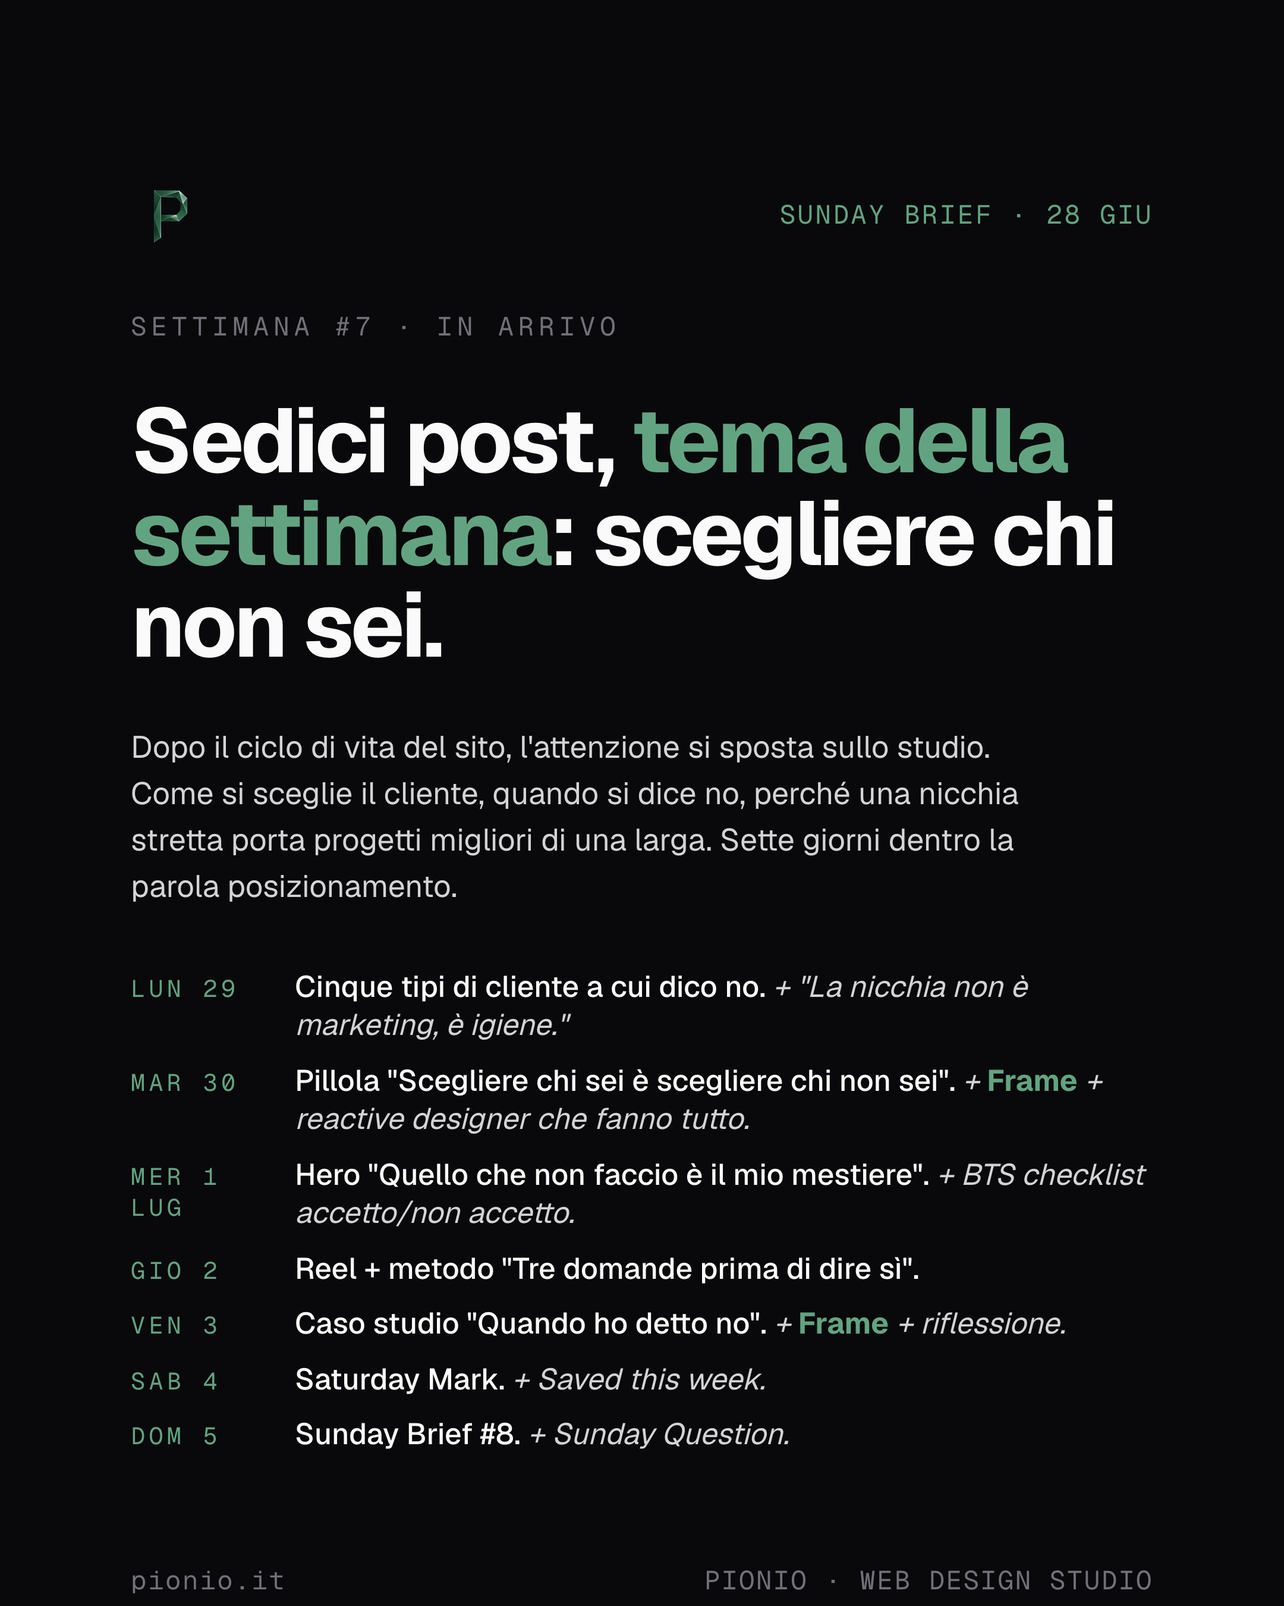
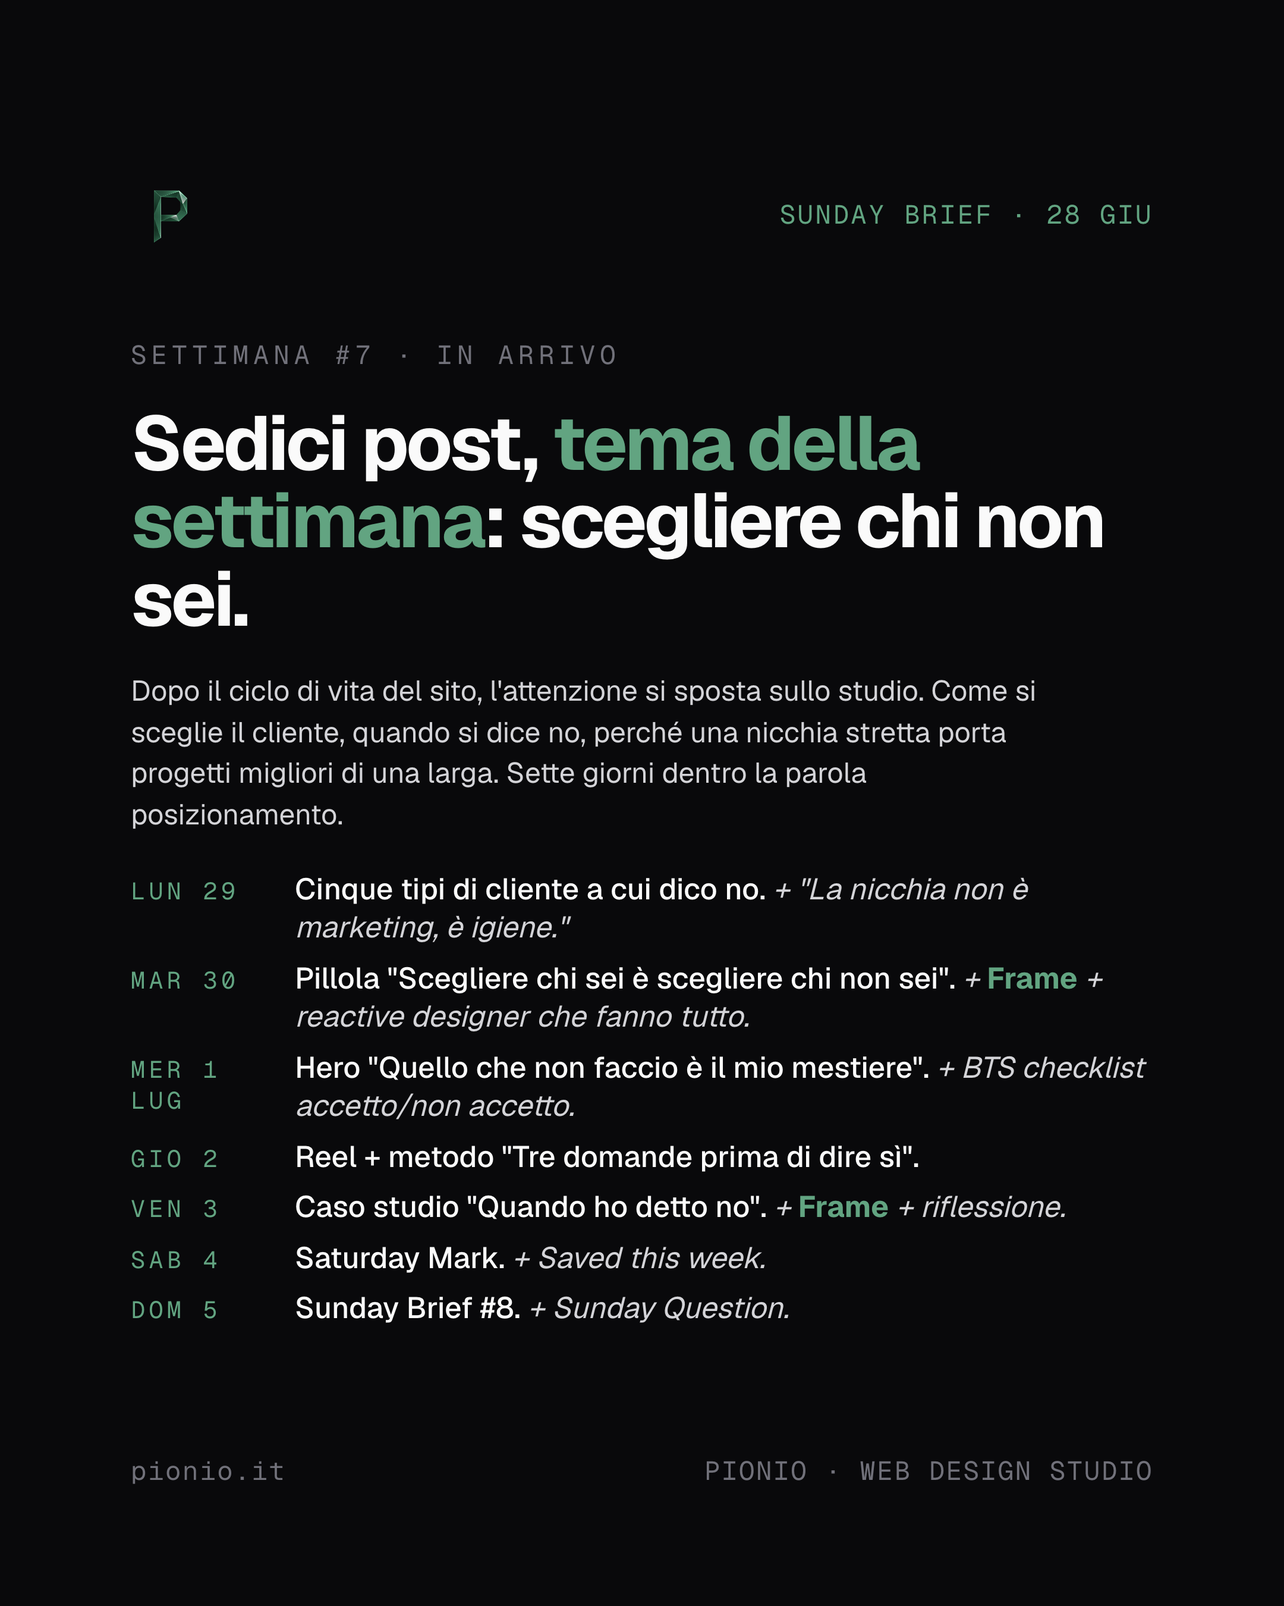
fix(instagram): Brief domenicale schiacciato in basso — bilanciamento layout
Title 76→64, gap main 44→28 + padding-top 24, gap list 14→10, lead 26→24.
Applicato ai 6 Brief W5-W10. 6 PNG re-renderizzati.

diff --git a/instagram/content/settimana-05-giu-2026/7-dom-21-13-brief-settimana-6/src/slides.html b/instagram/content/settimana-05-giu-2026/7-dom-21-13-brief-settimana-6/src/slides.html
@@ -1,0 +1,109 @@
+<!doctype html>
+<html lang="it">
+<head>
+<meta charset="utf-8" />
+<title>Pionio · Sunday Brief · 24 mag</title>
+<style>
+  @font-face { font-family: "Geist"; src: url("../../../../../brand-assets/fonts/Geist-Regular.ttf") format("truetype"); font-weight: 400; }
+  @font-face { font-family: "Geist"; src: url("../../../../../brand-assets/fonts/Geist-Medium.ttf") format("truetype"); font-weight: 500; }
+  @font-face { font-family: "Geist"; src: url("../../../../../brand-assets/fonts/Geist-Bold.ttf") format("truetype"); font-weight: 700; }
+  @font-face { font-family: "Geist Mono"; src: url("../../../../../brand-assets/fonts/GeistMono-Regular.ttf") format("truetype"); font-weight: 400; }
+
+  :root { --bg: #09090b; --text: #fafafa; --muted: #d4d4d8; --muted-dim: #71717a; --accent: #62a481; --accent-dark: #306b4d; }
+  * { box-sizing: border-box; margin: 0; padding: 0; }
+  html, body { background: var(--bg); margin: 0; padding: 0; overflow-x: hidden; }
+  body { font-family: "Geist", system-ui, sans-serif; color: var(--text); -webkit-font-smoothing: antialiased; text-rendering: geometricPrecision; }
+
+  .slide {
+    width: 1080px; height: 1350px; background: var(--bg);
+    position: relative; overflow: hidden; display: grid;
+    grid-template-rows: 160px 1fr 120px;
+    padding: 100px 110px; margin: 0 auto;
+  }
+
+  .header { display: flex; align-items: center; justify-content: space-between; }
+  .logo { width: 64px; height: 64px; }
+  .logo img { width: 100%; height: 100%; object-fit: contain; }
+  .eyebrow {
+    font-family: "Geist Mono", monospace; font-weight: 400; font-size: 22px;
+    color: var(--accent); letter-spacing: 0.08em; text-transform: uppercase;
+  }
+
+  .main {
+    display: flex; flex-direction: column; justify-content: center; gap: 44px;
+  }
+
+  .brief-kicker {
+    font-family: "Geist Mono", monospace; font-size: 22px;
+    color: var(--muted-dim); letter-spacing: 0.18em; text-transform: uppercase;
+  }
+
+  .brief-title {
+    font-family: "Geist", sans-serif; font-weight: 700; font-size: 80px;
+    line-height: 1.02; letter-spacing: -0.035em; color: var(--text);
+    max-width: 880px;
+  }
+  .brief-title em { font-style: normal; color: var(--accent); }
+
+  .brief-lead {
+    font-family: "Geist", sans-serif; font-weight: 400; font-size: 26px;
+    line-height: 1.5; color: var(--muted); max-width: 780px;
+  }
+
+  .brief-list { list-style: none; display: flex; flex-direction: column; gap: 10px; margin-top: 0; }
+  .brief-list li {
+    display: grid; grid-template-columns: 110px 1fr;
+    gap: 28px; align-items: baseline;
+  }
+  .brief-list .day {
+    font-family: "Geist Mono", monospace; font-size: 20px;
+    color: var(--accent); letter-spacing: 0.16em; text-transform: uppercase;
+  }
+  .brief-list .topic {
+    font-family: "Geist", sans-serif; font-weight: 500; font-size: 25px;
+    line-height: 1.3; color: var(--text);
+  }
+  .brief-list .topic em { font-style: italic; color: var(--muted); font-weight: 400; }
+  .brief-list .topic .frame { color: var(--accent); font-style: normal; font-weight: 600; }
+
+  .footer { display: flex; align-items: flex-end; justify-content: space-between; }
+  .footer-url, .footer-tag {
+    font-family: "Geist Mono", monospace; font-size: 22px;
+    color: var(--muted-dim); letter-spacing: 0.06em;
+  }
+</style>
+</head>
+<body data-gramm="false">
+
+<section class="slide" id="s1">
+  <div class="header">
+    <div class="logo"><img src="../../../../../design-system/assets/pionio-p-mark.png" alt="P"></div>
+    <div class="eyebrow">SUNDAY BRIEF · 21 GIU</div>
+  </div>
+
+  <div class="main">
+    <div class="brief-kicker">SETTIMANA #6 · IN ARRIVO</div>
+    <h1 class="brief-title">Sedici post, <em>tema della settimana</em>: quando rifare un sito.</h1>
+    <p class="brief-lead">
+      Chiude il ciclo: preventivo, lancio, manutenzione, e adesso il momento in cui anche la manutenzione non basta più. Come riconoscerlo, come decidere, come dirlo al cliente.
+    </p>
+
+    <ul class="brief-list">
+      <li><span class="day">Lun 22</span><span class="topic">Cinque segnali che il sito va rifatto. <em>+ "Rifare non è ricominciare."</em></span></li>
+      <li><span class="day">Mar 23</span><span class="topic">Pillola "Il sito che hai oggi non è il sito che ti serve". <em>+ <span class="frame">Frame</span> + reactive.</em></span></li>
+      <li><span class="day">Mer 24</span><span class="topic">Hero "Quando il sito invecchia male." <em>+ BTS audit pre-rifacimento.</em></span></li>
+      <li><span class="day">Gio 25</span><span class="topic">Reel "Anatomia di un audit". <em>+ pillola metodo.</em></span></li>
+      <li><span class="day">Ven 26</span><span class="topic">Caso studio "Quando ho detto: rifacciamolo". <em>+ <span class="frame">Frame</span> + riflessione.</em></span></li>
+      <li><span class="day">Sab 27</span><span class="topic">Saturday Mark. <em>+ Saved this week.</em></span></li>
+      <li><span class="day">Dom 28</span><span class="topic">Sunday Brief #7. <em>+ Sunday Question.</em></span></li>
+    </ul>
+  </div>
+
+  <div class="footer">
+    <div class="footer-url">pionio.it</div>
+    <div class="footer-tag">PIONIO · WEB DESIGN STUDIO</div>
+  </div>
+</section>
+
+</body>
+</html>

diff --git a/instagram/content/settimana-07-giu-2026/7-dom-5-13-brief-settimana-8/src/slides.html b/instagram/content/settimana-07-giu-2026/7-dom-5-13-brief-settimana-8/src/slides.html
@@ -2,7 +2,7 @@
 <html lang="it">
 <head>
 <meta charset="utf-8" />
-<title>Pionio · Sunday Brief · 28 giu</title>
+<title>Pionio · Sunday Brief · 5 lug</title>
 <style>
   @font-face { font-family: "Geist"; src: url("../../../../../brand-assets/fonts/Geist-Regular.ttf") format("truetype"); font-weight: 400; }
   @font-face { font-family: "Geist"; src: url("../../../../../brand-assets/fonts/Geist-Medium.ttf") format("truetype"); font-weight: 500; }
@@ -36,22 +36,22 @@
 <section class="slide" id="s1">
   <div class="header">
     <div class="logo"><img src="../../../../../design-system/assets/pionio-p-mark.png" alt="P"></div>
-    <div class="eyebrow">SUNDAY BRIEF · 28 GIU</div>
+    <div class="eyebrow">SUNDAY BRIEF · 5 LUG</div>
   </div>
   <div class="main">
-    <div class="brief-kicker">SETTIMANA #7 · IN ARRIVO</div>
-    <h1 class="brief-title">Sedici post, <em>tema della settimana</em>: scegliere chi non sei.</h1>
+    <div class="brief-kicker">SETTIMANA #8 · IN ARRIVO</div>
+    <h1 class="brief-title">Sedici post, <em>tema della settimana</em>: il primo contatto.</h1>
     <p class="brief-lead">
-      Dopo il ciclo di vita del sito, l'attenzione si sposta sullo studio. Come si sceglie il cliente, quando si dice no, perché una nicchia stretta porta progetti migliori di una larga. Sette giorni dentro la parola posizionamento.
+      Dopo aver parlato di chi non sono, parliamo di come comincia un progetto. Il primo contatto del cliente, la mail, la mood call, i primi sette giorni di un lavoro. Cosa cerco, cosa propongo, come si decide insieme se andiamo avanti.
     </p>
     <ul class="brief-list">
-      <li><span class="day">Lun 29</span><span class="topic">Cinque tipi di cliente a cui dico no. <em>+ "La nicchia non è marketing, è igiene."</em></span></li>
-      <li><span class="day">Mar 30</span><span class="topic">Pillola "Scegliere chi sei è scegliere chi non sei". <em>+ <span class="frame">Frame</span> + reactive designer che fanno tutto.</em></span></li>
-      <li><span class="day">Mer 1 lug</span><span class="topic">Hero "Quello che non faccio è il mio mestiere". <em>+ BTS checklist accetto/non accetto.</em></span></li>
-      <li><span class="day">Gio 2</span><span class="topic">Reel + metodo "Tre domande prima di dire sì". <em></em></span></li>
-      <li><span class="day">Ven 3</span><span class="topic">Caso studio "Quando ho detto no". <em>+ <span class="frame">Frame</span> + riflessione.</em></span></li>
-      <li><span class="day">Sab 4</span><span class="topic">Saturday Mark. <em>+ Saved this week.</em></span></li>
-      <li><span class="day">Dom 5</span><span class="topic">Sunday Brief #8. <em>+ Sunday Question.</em></span></li>
+      <li><span class="day">Lun 6</span><span class="topic">Cinque cose nella prima mail che mi dicono se è un cliente Pionio. <em>+ "Una mail bella è un brief mascherato."</em></span></li>
+      <li><span class="day">Mar 7</span><span class="topic">Pillola "La call vale più della mail". <em>+ <span class="frame">Frame</span> + reactive sulla forma scritta.</em></span></li>
+      <li><span class="day">Mer 8</span><span class="topic">Hero "I primi sette giorni decidono tutto". <em>+ BTS "Come preparo una mood call".</em></span></li>
+      <li><span class="day">Gio 9</span><span class="topic">Reel + metodo "La trascrizione dopo ogni call". <em></em></span></li>
+      <li><span class="day">Ven 10</span><span class="topic">Caso studio "Una mail che è diventata un sito". <em>+ <span class="frame">Frame</span> + riflessione.</em></span></li>
+      <li><span class="day">Sab 11</span><span class="topic">Saturday Mark. <em>+ Saved this week.</em></span></li>
+      <li><span class="day">Dom 12</span><span class="topic">Sunday Brief #9. <em>+ Sunday Question.</em></span></li>
     </ul>
   </div>
   <div class="footer">

diff --git a/instagram/content/settimana-08-lug-2026/7-dom-12-13-brief-settimana-9/src/slides.html b/instagram/content/settimana-08-lug-2026/7-dom-12-13-brief-settimana-9/src/slides.html
@@ -2,7 +2,7 @@
 <html lang="it">
 <head>
 <meta charset="utf-8" />
-<title>Pionio · Sunday Brief · 28 giu</title>
+<title>Pionio · Sunday Brief · 12 lug</title>
 <style>
   @font-face { font-family: "Geist"; src: url("../../../../../brand-assets/fonts/Geist-Regular.ttf") format("truetype"); font-weight: 400; }
   @font-face { font-family: "Geist"; src: url("../../../../../brand-assets/fonts/Geist-Medium.ttf") format("truetype"); font-weight: 500; }
@@ -36,22 +36,22 @@
 <section class="slide" id="s1">
   <div class="header">
     <div class="logo"><img src="../../../../../design-system/assets/pionio-p-mark.png" alt="P"></div>
-    <div class="eyebrow">SUNDAY BRIEF · 28 GIU</div>
+    <div class="eyebrow">SUNDAY BRIEF · 12 LUG</div>
   </div>
   <div class="main">
-    <div class="brief-kicker">SETTIMANA #7 · IN ARRIVO</div>
-    <h1 class="brief-title">Sedici post, <em>tema della settimana</em>: scegliere chi non sei.</h1>
+    <div class="brief-kicker">SETTIMANA #9 · IN ARRIVO</div>
+    <h1 class="brief-title">Sedici post, <em>tema della settimana</em>: la discovery.</h1>
     <p class="brief-lead">
-      Dopo il ciclo di vita del sito, l'attenzione si sposta sullo studio. Come si sceglie il cliente, quando si dice no, perché una nicchia stretta porta progetti migliori di una larga. Sette giorni dentro la parola posizionamento.
+      Capire il progetto prima di disegnare. Da lunedì entriamo nella fase più sottovalutata del mestiere: quella che precede ogni linea, ogni colore, ogni decisione di interfaccia. Cosa cerco, cosa scrivo, quanto dura.
     </p>
     <ul class="brief-list">
-      <li><span class="day">Lun 29</span><span class="topic">Cinque tipi di cliente a cui dico no. <em>+ "La nicchia non è marketing, è igiene."</em></span></li>
-      <li><span class="day">Mar 30</span><span class="topic">Pillola "Scegliere chi sei è scegliere chi non sei". <em>+ <span class="frame">Frame</span> + reactive designer che fanno tutto.</em></span></li>
-      <li><span class="day">Mer 1 lug</span><span class="topic">Hero "Quello che non faccio è il mio mestiere". <em>+ BTS checklist accetto/non accetto.</em></span></li>
-      <li><span class="day">Gio 2</span><span class="topic">Reel + metodo "Tre domande prima di dire sì". <em></em></span></li>
-      <li><span class="day">Ven 3</span><span class="topic">Caso studio "Quando ho detto no". <em>+ <span class="frame">Frame</span> + riflessione.</em></span></li>
-      <li><span class="day">Sab 4</span><span class="topic">Saturday Mark. <em>+ Saved this week.</em></span></li>
-      <li><span class="day">Dom 5</span><span class="topic">Sunday Brief #8. <em>+ Sunday Question.</em></span></li>
+      <li><span class="day">Lun 13</span><span class="topic">Cinque domande di discovery che nessuno fa. <em>+ "Disegnare senza capire è artigianato cieco."</em></span></li>
+      <li><span class="day">Mar 14</span><span class="topic">Pillola "La discovery è la metà del progetto". <em>+ <span class="frame">Frame</span> + reactive sul brief riempito.</em></span></li>
+      <li><span class="day">Mer 15</span><span class="topic">Hero "Quello che non si chiede non si trova". <em>+ BTS il documento di discovery in 3 pagine.</em></span></li>
+      <li><span class="day">Gio 16</span><span class="topic">Reel + metodo "Tre artefatti da consegnare dopo la discovery". <em></em></span></li>
+      <li><span class="day">Ven 17</span><span class="topic">Caso studio "Una discovery da due settimane". <em>+ <span class="frame">Frame</span> + riflessione.</em></span></li>
+      <li><span class="day">Sab 18</span><span class="topic">Saturday Mark. <em>+ Saved this week.</em></span></li>
+      <li><span class="day">Dom 19</span><span class="topic">Sunday Brief #10. <em>+ Sunday Question.</em></span></li>
     </ul>
   </div>
   <div class="footer">

diff --git a/instagram/content/settimana-10-lug-2026/7-dom-26-13-brief-settimana-11/src/slides.html b/instagram/content/settimana-10-lug-2026/7-dom-26-13-brief-settimana-11/src/slides.html
@@ -2,7 +2,7 @@
 <html lang="it">
 <head>
 <meta charset="utf-8" />
-<title>Pionio · Sunday Brief · 28 giu</title>
+<title>Pionio · Sunday Brief · 26 lug</title>
 <style>
   @font-face { font-family: "Geist"; src: url("../../../../../brand-assets/fonts/Geist-Regular.ttf") format("truetype"); font-weight: 400; }
   @font-face { font-family: "Geist"; src: url("../../../../../brand-assets/fonts/Geist-Medium.ttf") format("truetype"); font-weight: 500; }
@@ -36,22 +36,22 @@
 <section class="slide" id="s1">
   <div class="header">
     <div class="logo"><img src="../../../../../design-system/assets/pionio-p-mark.png" alt="P"></div>
-    <div class="eyebrow">SUNDAY BRIEF · 28 GIU</div>
+    <div class="eyebrow">SUNDAY BRIEF · 26 LUG</div>
   </div>
   <div class="main">
-    <div class="brief-kicker">SETTIMANA #7 · IN ARRIVO</div>
-    <h1 class="brief-title">Sedici post, <em>tema della settimana</em>: scegliere chi non sei.</h1>
+    <div class="brief-kicker">SETTIMANA #11 · IN ARRIVO</div>
+    <h1 class="brief-title">Sedici post, <em>tema della settimana</em>: velocità e SEO tecnico.</h1>
     <p class="brief-lead">
-      Dopo il ciclo di vita del sito, l'attenzione si sposta sullo studio. Come si sceglie il cliente, quando si dice no, perché una nicchia stretta porta progetti migliori di una larga. Sette giorni dentro la parola posizionamento.
+      Dopo la fase del disegno, la fase del funzionamento. Sette giorni dentro la parte meno glamour del mestiere: Core Web Vitals, immagini ottimizzate, indicizzazione, mobile. Tutto quello che il visitatore non vede ma sente.
     </p>
     <ul class="brief-list">
-      <li><span class="day">Lun 29</span><span class="topic">Cinque tipi di cliente a cui dico no. <em>+ "La nicchia non è marketing, è igiene."</em></span></li>
-      <li><span class="day">Mar 30</span><span class="topic">Pillola "Scegliere chi sei è scegliere chi non sei". <em>+ <span class="frame">Frame</span> + reactive designer che fanno tutto.</em></span></li>
-      <li><span class="day">Mer 1 lug</span><span class="topic">Hero "Quello che non faccio è il mio mestiere". <em>+ BTS checklist accetto/non accetto.</em></span></li>
-      <li><span class="day">Gio 2</span><span class="topic">Reel + metodo "Tre domande prima di dire sì". <em></em></span></li>
-      <li><span class="day">Ven 3</span><span class="topic">Caso studio "Quando ho detto no". <em>+ <span class="frame">Frame</span> + riflessione.</em></span></li>
-      <li><span class="day">Sab 4</span><span class="topic">Saturday Mark. <em>+ Saved this week.</em></span></li>
-      <li><span class="day">Dom 5</span><span class="topic">Sunday Brief #8. <em>+ Sunday Question.</em></span></li>
+      <li><span class="day">Lun 27</span><span class="topic">Cinque cose da ottimizzare prima del lancio. <em>+ "La velocità è il primo design."</em></span></li>
+      <li><span class="day">Mar 28</span><span class="topic">Pillola "Sotto i 2 secondi o non esisti". <em>+ <span class="frame">Frame</span> + reactive sul JS pesante.</em></span></li>
+      <li><span class="day">Mer 29</span><span class="topic">Hero "Il sito veloce è un sito gentile". <em>+ BTS "Come uso Lighthouse in 10 minuti".</em></span></li>
+      <li><span class="day">Gio 30</span><span class="topic">Reel + metodo "Il budget di kilobyte per pagina". <em></em></span></li>
+      <li><span class="day">Ven 31</span><span class="topic">Caso studio "Da 6 secondi a 1,2: cosa ho fatto". <em>+ <span class="frame">Frame</span> + riflessione.</em></span></li>
+      <li><span class="day">Sab 1 ago</span><span class="topic">Saturday Mark. <em>+ Saved this week.</em></span></li>
+      <li><span class="day">Dom 2 ago</span><span class="topic">Sunday Brief #12. <em>+ Sunday Question.</em></span></li>
     </ul>
   </div>
   <div class="footer">

diff --git a/instagram/content/settimana-09-lug-2026/7-dom-19-13-brief-settimana-10/src/slides.html b/instagram/content/settimana-09-lug-2026/7-dom-19-13-brief-settimana-10/src/slides.html
@@ -2,7 +2,7 @@
 <html lang="it">
 <head>
 <meta charset="utf-8" />
-<title>Pionio · Sunday Brief · 28 giu</title>
+<title>Pionio · Sunday Brief · 19 lug</title>
 <style>
   @font-face { font-family: "Geist"; src: url("../../../../../brand-assets/fonts/Geist-Regular.ttf") format("truetype"); font-weight: 400; }
   @font-face { font-family: "Geist"; src: url("../../../../../brand-assets/fonts/Geist-Medium.ttf") format("truetype"); font-weight: 500; }
@@ -36,22 +36,22 @@
 <section class="slide" id="s1">
   <div class="header">
     <div class="logo"><img src="../../../../../design-system/assets/pionio-p-mark.png" alt="P"></div>
-    <div class="eyebrow">SUNDAY BRIEF · 28 GIU</div>
+    <div class="eyebrow">SUNDAY BRIEF · 19 LUG</div>
   </div>
   <div class="main">
-    <div class="brief-kicker">SETTIMANA #7 · IN ARRIVO</div>
-    <h1 class="brief-title">Sedici post, <em>tema della settimana</em>: scegliere chi non sei.</h1>
+    <div class="brief-kicker">SETTIMANA #10 · IN ARRIVO</div>
+    <h1 class="brief-title">Sedici post, <em>tema della settimana</em>: decisioni di design.</h1>
     <p class="brief-lead">
-      Dopo il ciclo di vita del sito, l'attenzione si sposta sullo studio. Come si sceglie il cliente, quando si dice no, perché una nicchia stretta porta progetti migliori di una larga. Sette giorni dentro la parola posizionamento.
+      Dopo aver capito, si decide. Gerarchia, focus, sottrarre. Le tre forze che spostano un sito dal "tutto" al "questo soltanto". Da lunedì, dentro il momento più artigianale del mestiere.
     </p>
     <ul class="brief-list">
-      <li><span class="day">Lun 29</span><span class="topic">Cinque tipi di cliente a cui dico no. <em>+ "La nicchia non è marketing, è igiene."</em></span></li>
-      <li><span class="day">Mar 30</span><span class="topic">Pillola "Scegliere chi sei è scegliere chi non sei". <em>+ <span class="frame">Frame</span> + reactive designer che fanno tutto.</em></span></li>
-      <li><span class="day">Mer 1 lug</span><span class="topic">Hero "Quello che non faccio è il mio mestiere". <em>+ BTS checklist accetto/non accetto.</em></span></li>
-      <li><span class="day">Gio 2</span><span class="topic">Reel + metodo "Tre domande prima di dire sì". <em></em></span></li>
-      <li><span class="day">Ven 3</span><span class="topic">Caso studio "Quando ho detto no". <em>+ <span class="frame">Frame</span> + riflessione.</em></span></li>
-      <li><span class="day">Sab 4</span><span class="topic">Saturday Mark. <em>+ Saved this week.</em></span></li>
-      <li><span class="day">Dom 5</span><span class="topic">Sunday Brief #8. <em>+ Sunday Question.</em></span></li>
+      <li><span class="day">Lun 20</span><span class="topic">Cinque decisioni di design che decidono tutto. <em>+ "Sottrarre è la mossa più costosa."</em></span></li>
+      <li><span class="day">Mar 21</span><span class="topic">Pillola "Una sola cosa per slide, una sola per sezione". <em>+ <span class="frame">Frame</span> + reactive sul troppo.</em></span></li>
+      <li><span class="day">Mer 22</span><span class="topic">Hero "Il design è la lista di cosa togliere". <em>+ BTS "Come decido la gerarchia di una homepage".</em></span></li>
+      <li><span class="day">Gio 23</span><span class="topic">Reel + metodo "La regola del primo scroll". <em></em></span></li>
+      <li><span class="day">Ven 24</span><span class="topic">Caso studio "Una homepage tolta a metà". <em>+ <span class="frame">Frame</span> + riflessione.</em></span></li>
+      <li><span class="day">Sab 25</span><span class="topic">Saturday Mark. <em>+ Saved this week.</em></span></li>
+      <li><span class="day">Dom 26</span><span class="topic">Sunday Brief #11. <em>+ Sunday Question.</em></span></li>
     </ul>
   </div>
   <div class="footer">
